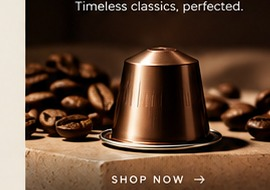
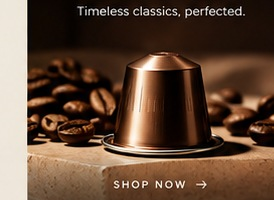
fix: align homepage copy, card overlays, and sustainability layout with mockup
- Collection cards: photo with bottom gradient overlay + SHOP NOW (mockup structure)
- Copy: hero body, collection taglines, sustainability paragraph match brief
- Sustainability: full-width plantation photo with solid left panel + quote overlay
- Re-crop hero and section photography from design-refs

VPods-Actor: vpods-hire:rae/task_3ab30883

diff --git a/app/page.tsx b/app/page.tsx
@@ -55,19 +55,19 @@ const collections = [
   },
   {
     title: "Single Origin",
-    tagline: "Distinct terroirs, pure expression.",
+    tagline: "Distinctive. Authentic. Unforgettable.",
     image: "/images/collection-single-origin.jpg",
     alt: "Green capsule among coffee leaves",
   },
   {
     title: "Espresso Intenso",
-    tagline: "Bold character, deep intensity.",
+    tagline: "Bold flavors for a stronger you.",
     image: "/images/collection-espresso-intenso.jpg",
     alt: "Black capsule on dark volcanic rock",
   },
   {
     title: "Flavored Editions",
-    tagline: "Subtle notes, extraordinary taste.",
+    tagline: "A delightful twist on tradition.",
     image: "/images/collection-flavored.jpg",
     alt: "Purple capsule with vanilla and cinnamon",
   },
@@ -85,10 +85,10 @@ export default function HomePage() {
             alt="Marble countertop with espresso, ARÔMA capsule box, and colorful capsules"
             fill
             priority
-            className="object-cover object-[70%_center]"
+            className="object-cover object-[60%_40%]"
             sizes="100vw"
           />
-          <div className="absolute inset-0 bg-gradient-to-r from-aroma-black from-20% via-aroma-black/85 via-50% to-aroma-black/30" />
+          <div className="absolute inset-0 bg-gradient-to-r from-aroma-black from-15% via-aroma-black/90 via-55% to-aroma-black/40 to-80%" />
         </div>
 
         <Header />
@@ -114,9 +114,9 @@ export default function HomePage() {
               Redefined
             </h1>
             <p className="mt-5 max-w-md font-sans text-sm leading-relaxed text-white/75 md:text-[15px]">
-              Curated selections of premium coffee capsules, crafted for
-              compatibility with Nespresso® machines and designed for those who
-              refuse to compromise on taste.
+              Discover a curated selection of Nespresso® compatible capsules from
+              the world&apos;s finest coffee regions. Crafted for those who
+              appreciate the extraordinary.
             </p>
             <a href="#collections" className="btn-gold mt-8">
               Shop Our Collection →
@@ -155,34 +155,31 @@ export default function HomePage() {
             </p>
           </div>
 
-          {/* Collection grid — title block, photo, CTA per mockup */}
+          {/* Collection grid — photo with bottom overlay text per mockup */}
           <div className="grid gap-6 sm:grid-cols-2 lg:grid-cols-4 lg:gap-5">
             {collections.map((col) => (
               <article
                 key={col.title}
-                className="group flex flex-col overflow-hidden bg-aroma-charcoal"
+                className="group relative aspect-[3/4] overflow-hidden bg-aroma-charcoal sm:aspect-[4/5]"
               >
-                <div className="px-5 pb-4 pt-5">
-                  <h3 className="font-serif text-base font-medium uppercase tracking-wide text-aroma-gold md:text-lg">
+                <Image
+                  src={col.image}
+                  alt={col.alt}
+                  fill
+                  className="object-cover transition-transform duration-500 group-hover:scale-105"
+                  sizes="(max-width: 768px) 100vw, 25vw"
+                />
+                <div className="absolute inset-0 bg-gradient-to-t from-aroma-black via-aroma-black/50 to-transparent" />
+                <div className="absolute inset-x-0 bottom-0 px-5 pb-5 pt-16">
+                  <h3 className="font-serif text-sm font-medium uppercase tracking-wide text-aroma-gold md:text-base">
                     {col.title}
                   </h3>
-                  <p className="mt-1 font-sans text-xs text-white/60 md:text-sm">
+                  <p className="mt-1 font-sans text-xs text-white/75 md:text-sm">
                     {col.tagline}
                   </p>
-                </div>
-                <div className="relative aspect-[4/3] overflow-hidden">
-                  <Image
-                    src={col.image}
-                    alt={col.alt}
-                    fill
-                    className="object-cover transition-transform duration-500 group-hover:scale-105"
-                    sizes="(max-width: 768px) 100vw, 25vw"
-                  />
-                </div>
-                <div className="px-5 py-4">
                   <a
                     href="#shop"
-                    className="font-sans text-[10px] font-semibold uppercase tracking-[0.15em] text-white transition-colors hover:text-aroma-gold"
+                    className="mt-4 inline-block font-sans text-[10px] font-semibold uppercase tracking-[0.15em] text-white transition-colors hover:text-aroma-gold"
                   >
                     Shop Now →
                   </a>
@@ -193,11 +190,20 @@ export default function HomePage() {
         </div>
       </section>
 
-      {/* ── SUSTAINABILITY ── */}
-      <section id="sustainability" className="relative overflow-hidden">
-        <div className="grid min-h-[480px] lg:min-h-[560px] lg:grid-cols-2">
+      {/* ── SUSTAINABILITY — full-width plantation photo with split overlay ── */}
+      <section id="sustainability" className="relative min-h-[520px] overflow-hidden lg:min-h-[580px]">
+        <Image
+          src="/images/sustainability-plantation.jpg"
+          alt="Coffee plantation at golden hour in misty mountains"
+          fill
+          className="object-cover object-center"
+          sizes="100vw"
+        />
+        <div className="absolute inset-0 bg-aroma-black/35" />
+
+        <div className="relative grid min-h-[520px] lg:min-h-[580px] lg:grid-cols-2">
           {/* Left content panel */}
-          <div className="relative z-10 flex flex-col justify-center bg-aroma-black px-6 py-16 lg:px-14 lg:py-24 xl:px-20">
+          <div className="flex flex-col justify-center bg-aroma-black px-6 py-16 lg:px-14 lg:py-24 xl:px-20">
             <p className="eyebrow mb-4">A Richer Tomorrow</p>
             <h2 className="font-serif text-3xl font-light leading-tight text-white md:text-4xl lg:text-[2.75rem]">
               Sustainability in
@@ -205,33 +211,23 @@ export default function HomePage() {
               Every Capsule
             </h2>
             <p className="mt-5 max-w-md font-sans text-sm leading-relaxed text-white/70 md:text-[15px]">
-              From responsible sourcing to recyclable packaging, every ARÔMA
-              capsule reflects our commitment to the planet and the communities
-              that grow our coffee.
+              Great coffee should be good for the planet. Our capsules are
+              responsibly sourced and many are recyclable, so you can enjoy
+              every cup with a clear conscience.
             </p>
             <a href="#commitment" className="btn-gold mt-8 w-fit">
               Our Commitment →
             </a>
           </div>
 
-          {/* Right photography + quote */}
-          <div className="relative min-h-[320px] lg:min-h-full">
-            <Image
-              src="/images/sustainability-plantation.jpg"
-              alt="Coffee plantation at golden hour in misty mountains"
-              fill
-              className="object-cover object-left-top"
-              sizes="50vw"
-            />
-            <div className="absolute inset-0 bg-aroma-black/50" />
-            <div className="absolute inset-0 flex items-center justify-center px-8 lg:px-12">
-              <blockquote className="max-w-sm text-center">
-                <p className="font-serif text-xl italic leading-relaxed text-white md:text-2xl lg:text-[1.65rem]">
-                  &ldquo;Extraordinary coffee can create a better tomorrow.&rdquo;
-                </p>
-                <div className="mx-auto mt-5 h-px w-12 bg-aroma-gold" />
-              </blockquote>
-            </div>
+          {/* Right quote over plantation */}
+          <div className="flex items-center justify-center px-8 py-16 lg:px-12 lg:py-24">
+            <blockquote className="max-w-sm text-center">
+              <p className="font-serif text-xl italic leading-relaxed text-white md:text-2xl lg:text-[1.65rem]">
+                &ldquo;Extraordinary coffee can create a better tomorrow.&rdquo;
+              </p>
+              <div className="mx-auto mt-5 h-px w-12 bg-aroma-gold" />
+            </blockquote>
           </div>
         </div>
       </section>
